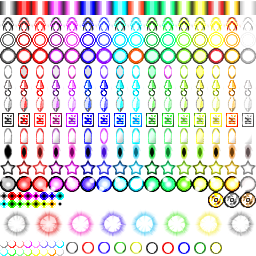
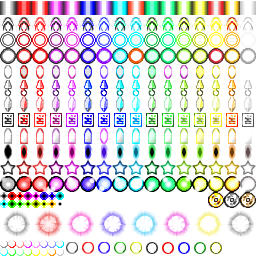
Another bullet updated

Changed region(s): [[0.625, 0.8125, 0.75, 0.9375], [0.6875, 0.25, 0.75, 0.3125]]

diff --git a/mima/files.js b/mima/files.js
@@ -204,7 +204,7 @@
 	"th10/player/pl01/pl01.png": 1530013223,
 	"th10/title/sl_pl01.png": 2852854759,
 	"th10/title/weapon.png": 1112858717,
-	"th11/bullet/etama.png": 2526505785,
+	"th11/bullet/etama.png": 1073321878,
 	"th11/bullet/etama2.png": 18050764,
 	"th11/bullet/etama6.png": 4160983829,
 	"th11/face/pl01/face_pl01an.png": 2349478386,
